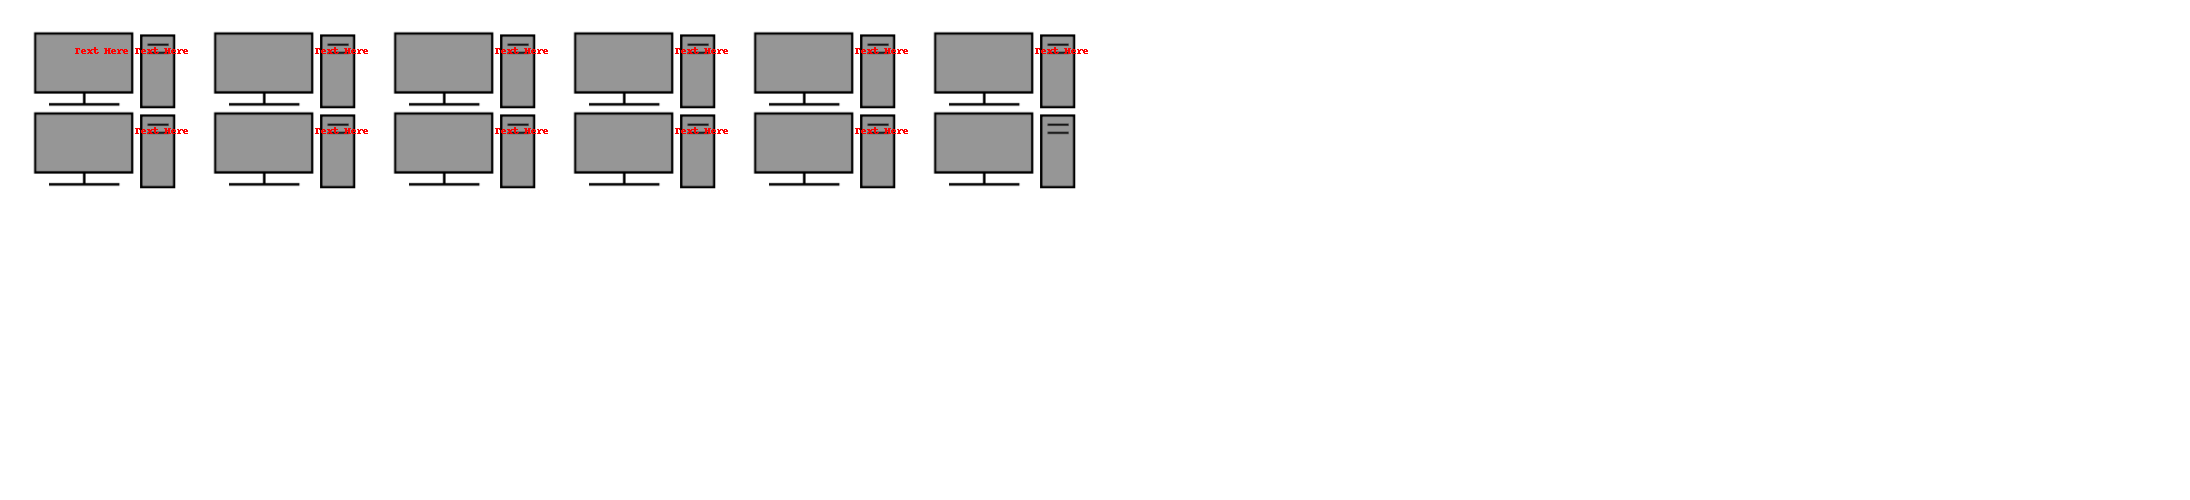
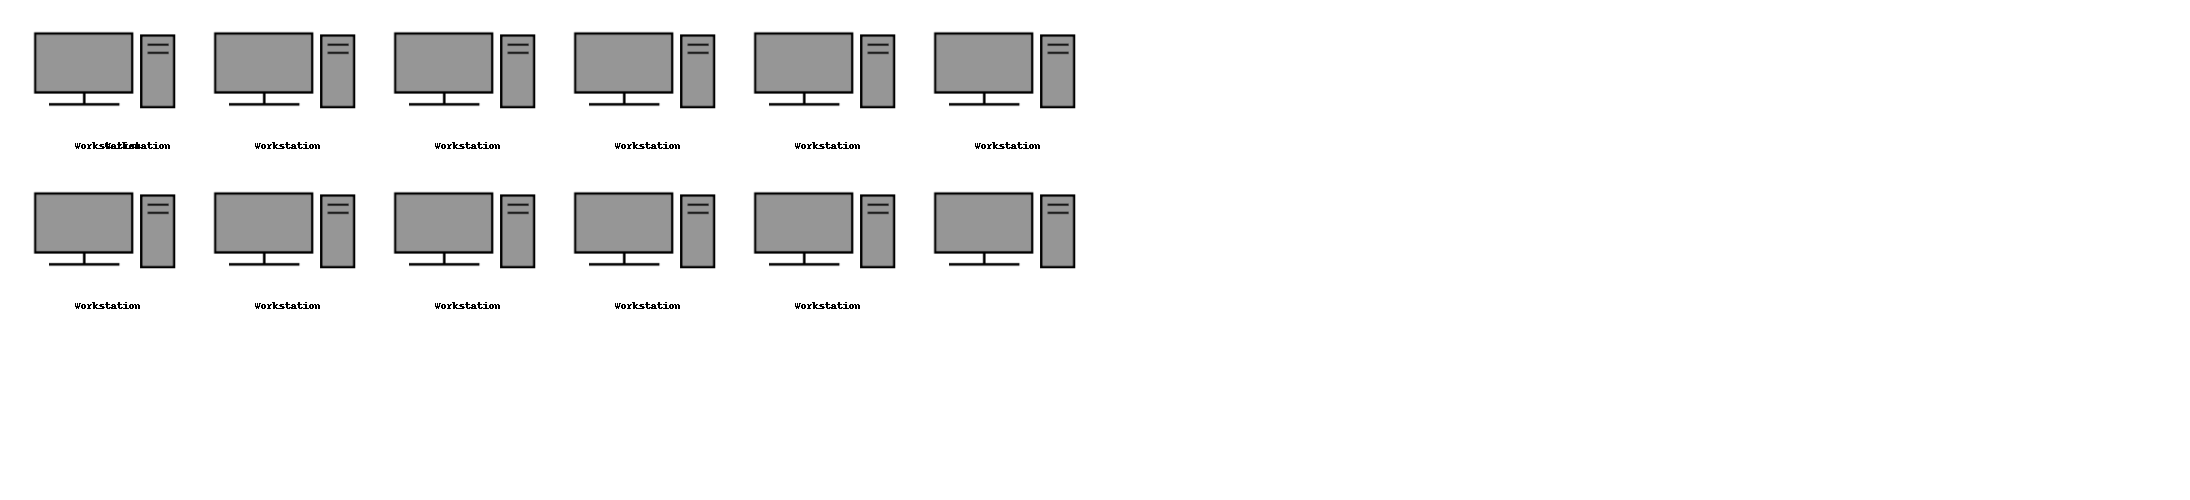
more code

diff --git a/NetworkDiagrammer/XML/SingleXMLParser.py b/NetworkDiagrammer/XML/SingleXMLParser.py
@@ -81,9 +81,10 @@ print('-------------------------------------------------------------------------
 #--------------START of Image Creator-----------------------------------------------
 
 #Variables
-PaddingSize = 30
+PaddingSizeX = 30
+PaddingSizeY = 30
 # (TODO) - Incorperate numWksPerRow into this calculation instead of just raw number
-BaseImageSizeX = (150 * numOfScannedIps) + (PaddingSize * (numOfScannedIps + 1))
+BaseImageSizeX = (150 * numOfScannedIps) + (PaddingSizeX * (numOfScannedIps + 1))
 BaseImageSizeY = 500
 Image_Filename = "TestImage1.png"
 
@@ -103,30 +104,32 @@ Canvas = Image.new('RGB', (BaseImageSizeX, BaseImageSizeY), color = 'white')
 Canvas.save(Image_Filename)
 
 count = 0
-rowCount = 0
-startX = 0 + PaddingSize
-startY = 0 + PaddingSize
+inRowCount = 0
+numCurrentRows = 1
+startX = 0 + PaddingSizeX
+startY = 0 + PaddingSizeY
 while count < numOfScannedIps:
-	if startX == (0 + PaddingSize):
-		midX = ((iconWidth / 2))
-		midY = (startY + 15)
+	if startX == (0 + PaddingSizeX):
+		midX = (((iconWidth + (PaddingSizeX * 2)) / 2))
+		midY = (startY + iconHeight + PaddingSizeY)
 	else:
-		midX = (startX - (iconWidth / 2))
-		midY = (startY + 15)
+		midX = (startX - (((iconWidth + (PaddingSizeX * 2)) / 2) + PaddingSizeX))
+		midY = (startY + iconHeight + PaddingSizeY)
 	#This if statment checks to see how many icons have been placed in a row then starts a new row
-	if rowCount >= numWksPerRow:
-		startX = 0 + PaddingSize
-		startY = 0 + iconHeight + PaddingSize
-		rowCount = 0
+	if inRowCount >= numWksPerRow:
+		numCurrentRows = numCurrentRows + 1
+		startX = PaddingSizeX
+		startY = (iconHeight * numCurrentRows) + PaddingSizeY
+		inRowCount = 0
 	# This pastes the workstaton image on the white canvas.
 	# (TODO) - Potentially add the correct icon of the system to the image, this would just be an if statement comparing the list
 	Canvas.paste(workstationIcon, (startX, startY), workstationIcon)
 	# (TODO) - Add the IP address of the workstation to the bottom of the image
-	d = ImageDraw.Draw(Canvas)
-	d.text((midX, midY), "Text Here", fill=(255,0,0))
+	wksTextBox = ImageDraw.Draw(Canvas)
+	wksTextBox.text((midX, midY), "Workstation", fill=(0,0,0))
 	#Increasing the x position of the icon
-	startX = startX + 150 + PaddingSize
-	rowCount = rowCount + 1
+	startX = startX + 150 + PaddingSizeX
+	inRowCount = inRowCount + 1
 	print('Workstation Pos : ', startX, startY)
 	count = count + 1
 
